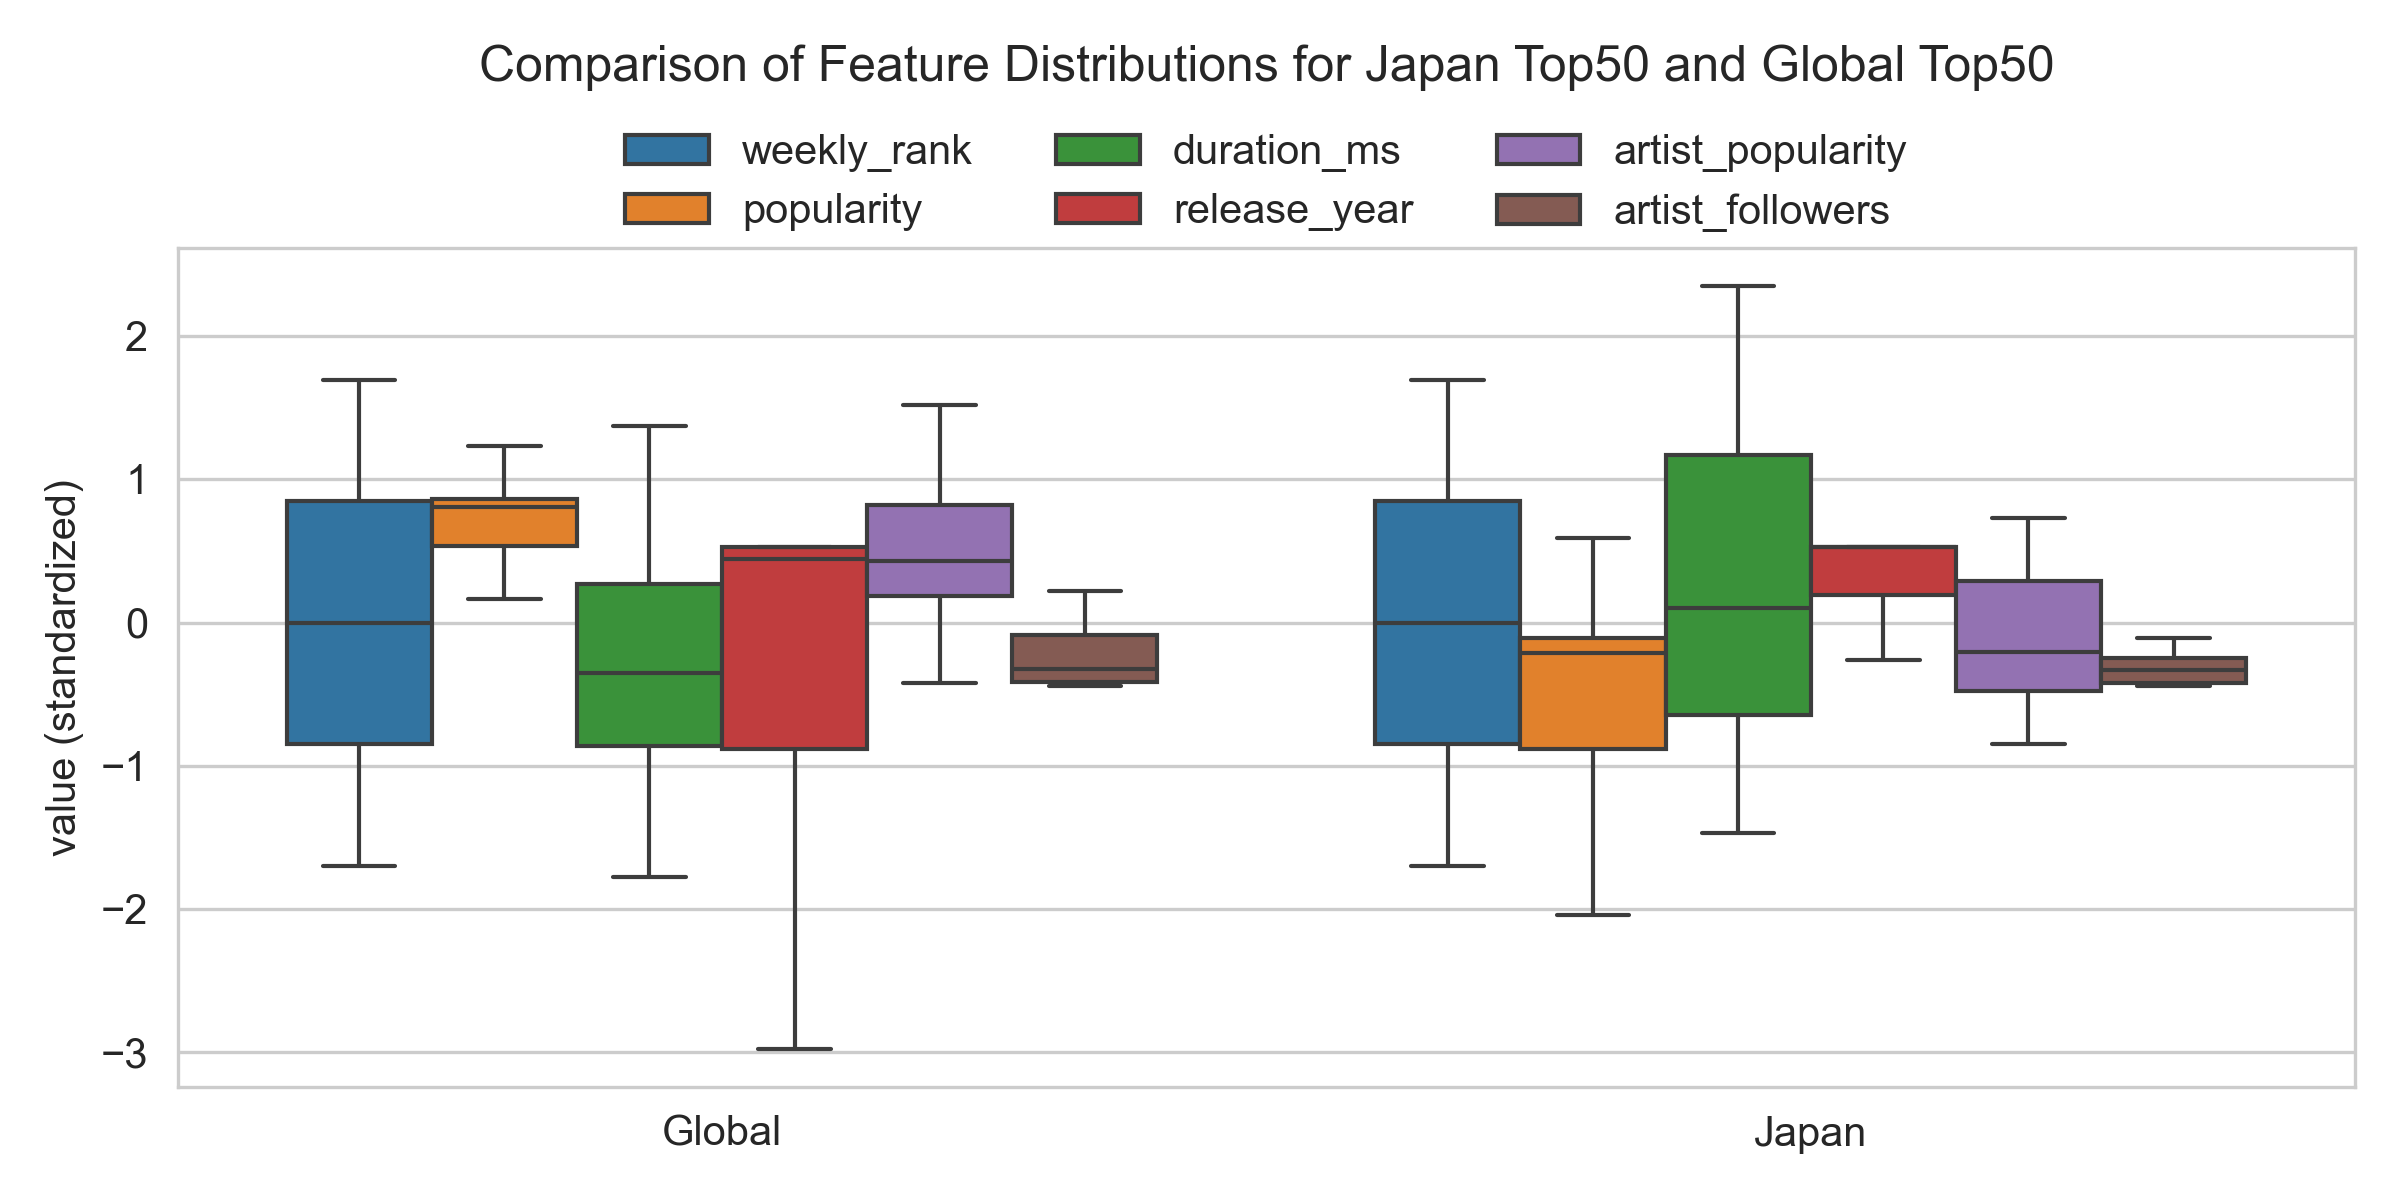
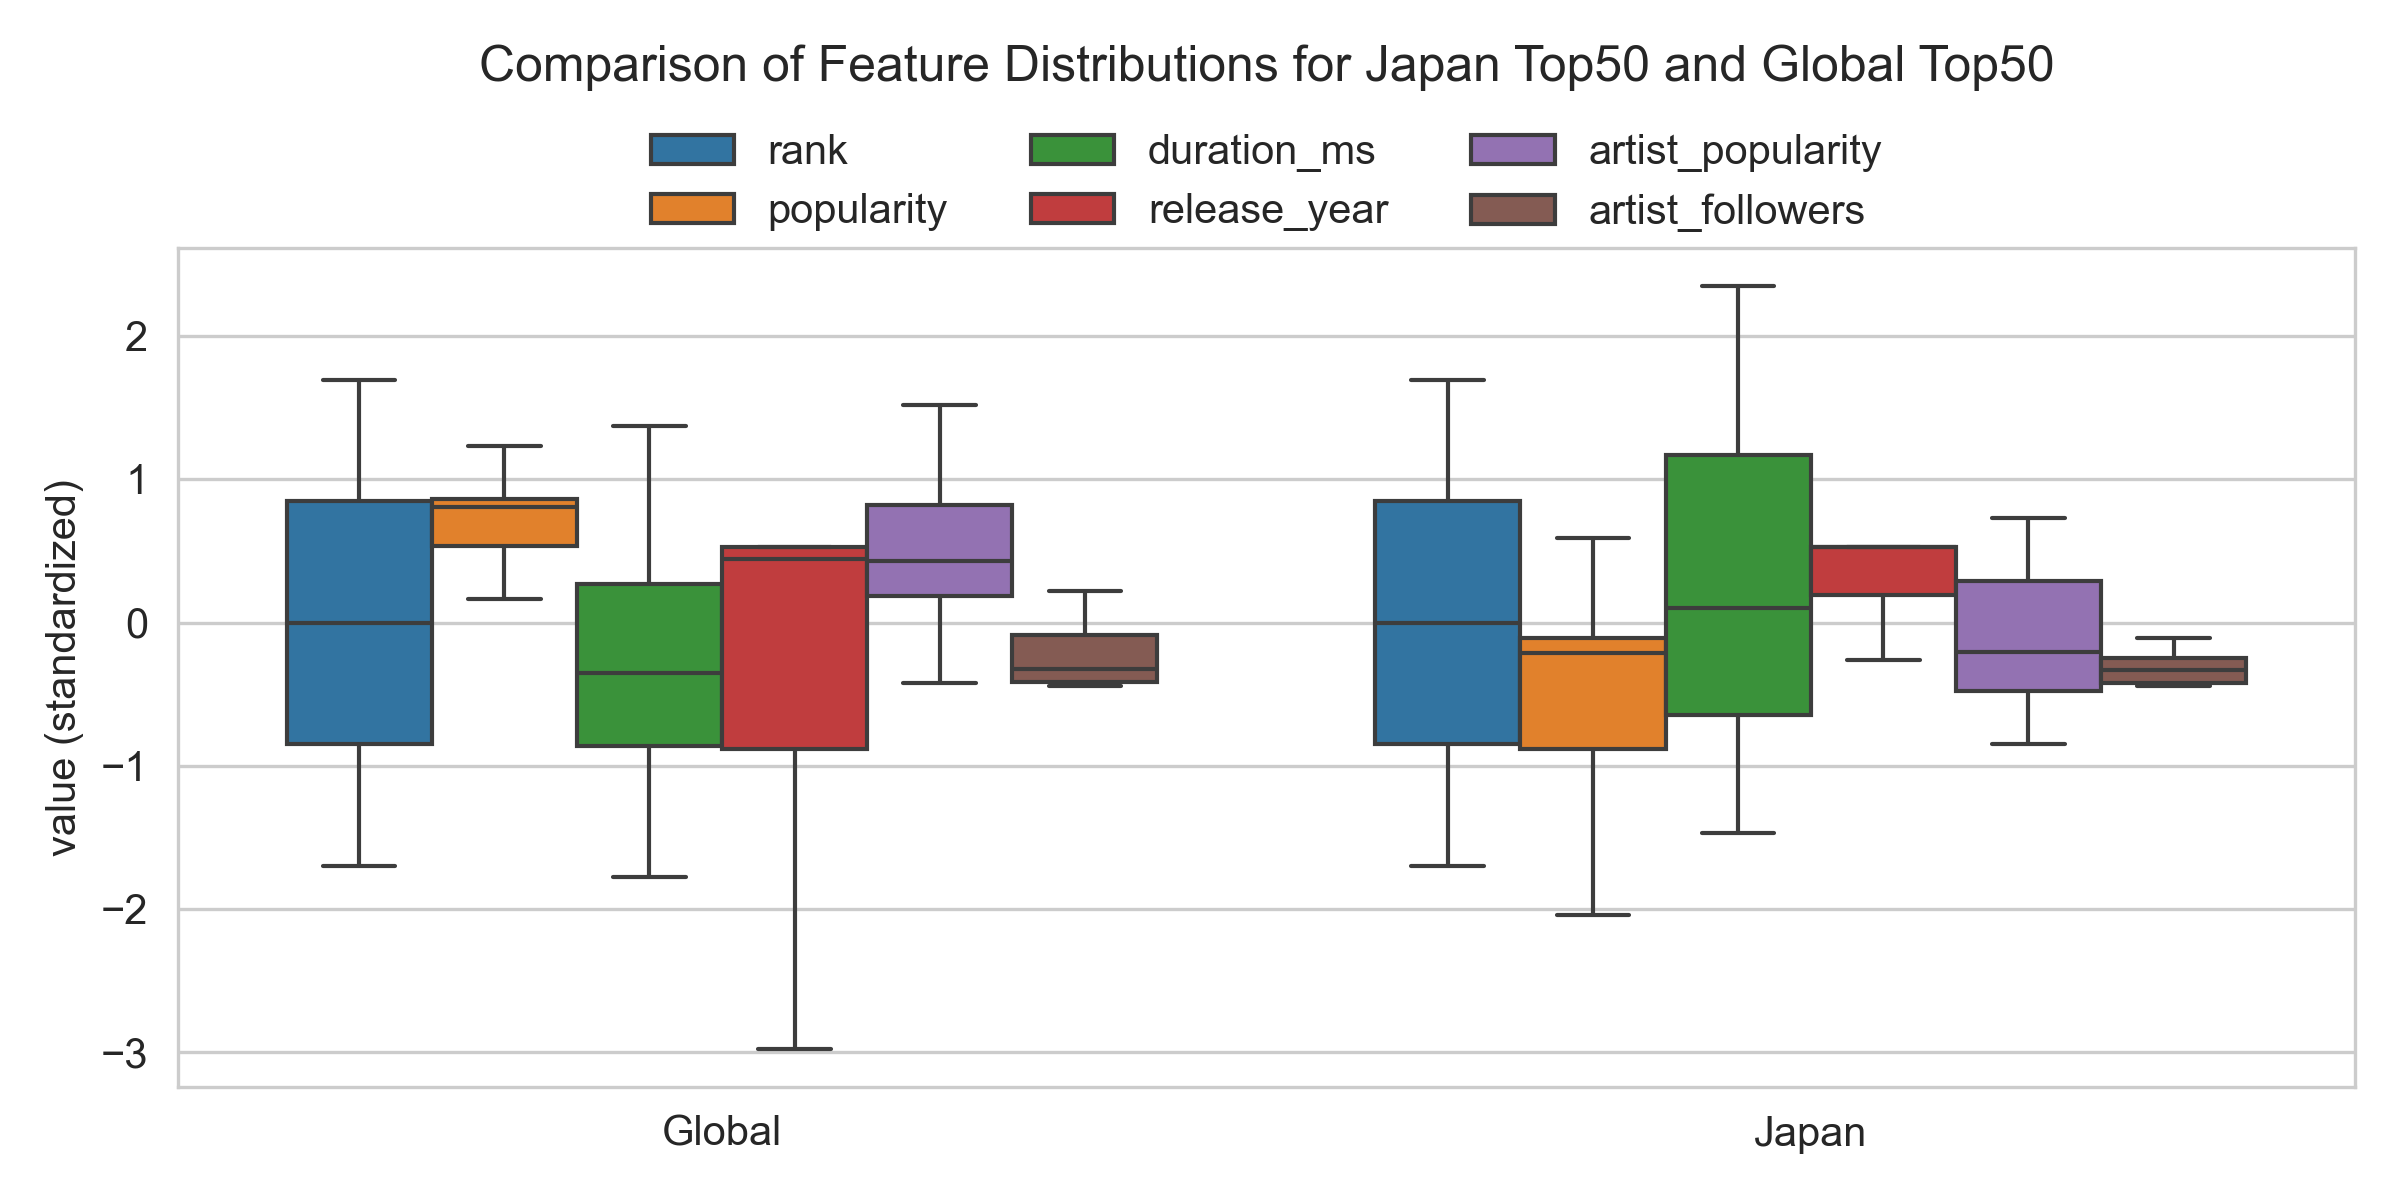
フィールド名を修正: weekly_rank を rank に変更

Changed region(s): [[0.25, 0.0925, 0.7812, 0.185]]

diff --git a/prog_spe2/report1/get_data_spotify.py b/prog_spe2/report1/get_data_spotify.py
@@ -53,7 +53,7 @@ def get_playlist_tracks(playlist_ids, market="JP"):
             # 1行分のデータを追加
             rows.append({
                 "country": country,
-                "weekly_rank": rank,
+                "rank": rank,
                 "track_name": track_name,
                 "artist_name": artist_name,
                 "popularity": popularity,
